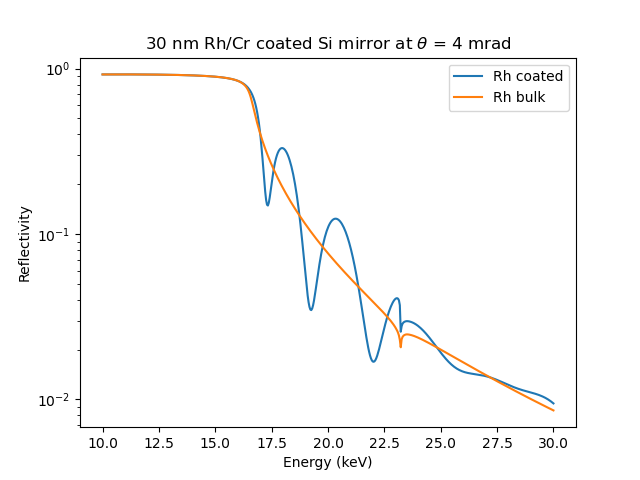
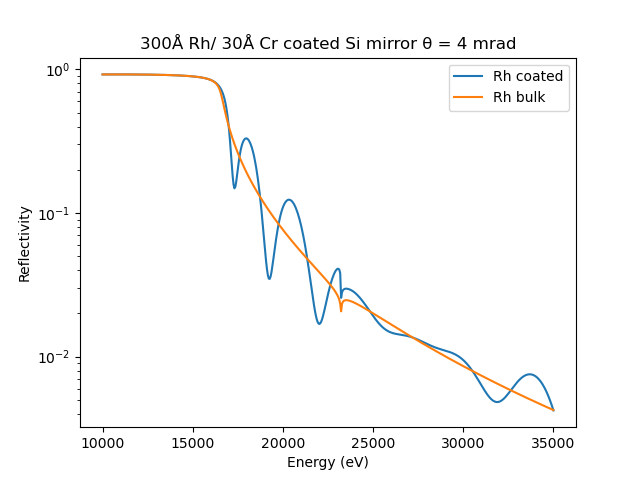
tweak examples to use energy in eV

diff --git a/python/examples/mirror_coated.py b/python/examples/mirror_coated.py
@@ -6,17 +6,18 @@ coating = 'Rh'
 coating_thick = 300
 substrate = 'Si'
 theta = 0.004
-energy = np.linspace(10000, 30000, 500)
+energy = np.linspace(10000, 35000, 500)
 binder = 'Cr'
 binder_thick = 30
 
-r = coated_reflectivity(coating, coating_thick, substrate, theta, energy, binder=binder, binder_thick=binder_thick)
-r_Rh = mirror_reflectivity('Rh', theta, energy)
+refl_coat = coated_reflectivity(coating, coating_thick, substrate, theta, energy, binder=binder, binder_thick=binder_thick)
+refl_rhod = mirror_reflectivity('Rh', theta, energy)
 
-plt.plot(energy/1000, r, label='Rh coated')
-plt.plot(energy/1000, r_Rh, label='Rh bulk')
-plt.title(f'{coating_thick//10} nm {coating}/{binder} coated {substrate} mirror ' + 'at $\\theta$ = ' + f'{theta*1000:.0f} mrad')
-plt.xlabel('Energy (keV)')
+title = f'{coating_thick}\u212B {coating}/ {binder_thick}\u212B {binder} coated {substrate} mirror \u03B8 = {theta*1000:.0f} mrad'
+plt.plot(energy, refl_coat, label='Rh coated')
+plt.plot(energy, refl_rhod, label='Rh bulk')
+plt.title(title)
+plt.xlabel('Energy (eV)')
 plt.ylabel('Reflectivity')
 plt.yscale('log')
 plt.legend()

diff --git a/python/examples/mirror_multilayer.py b/python/examples/mirror_multilayer.py
@@ -2,18 +2,19 @@ import numpy as np
 from xraydb import multilayer_reflectivity
 import matplotlib.pyplot as plt
 
-stackup = ['Si', 'W']
-N = 50
-thickness = [27, 18] # angstroms
+# 40 layers of [27Ang Si, 18Ang W]
+materials = ['Si', 'W']
+thicknesses = [27, 18] # angstroms
+n_periods = 40
 substrate = 'SiO2'
 theta = 0.01
 energy = np.linspace(500, 20000, 5000)
 
-r = multilayer_reflectivity(
-    stackup, thickness, substrate, theta, energy, n_periods=N)
-plt.plot(energy/1000, r)
-plt.title('$40 \\times [\mathrm{27\ \AA\ Si, 18\ \AA\ W}]$ ' \
-          'multilayer at $\\theta$ = ' + f'{theta*1000:.0f} mrad')
-plt.xlabel('Energy (keV)')
+reflect = multilayer_reflectivity(materials, thicknesses, substrate,
+                                  theta, energy, n_periods=n_periods)
+
+plt.plot(energy, reflect)
+plt.title(f'40 x [27\u212B Si, 18\u212B W] multilayer at \u03B8 = {theta*1000:.0f} mrad')
+plt.xlabel('Energy (eV)')
 plt.ylabel('Reflectivity')
 plt.show()
